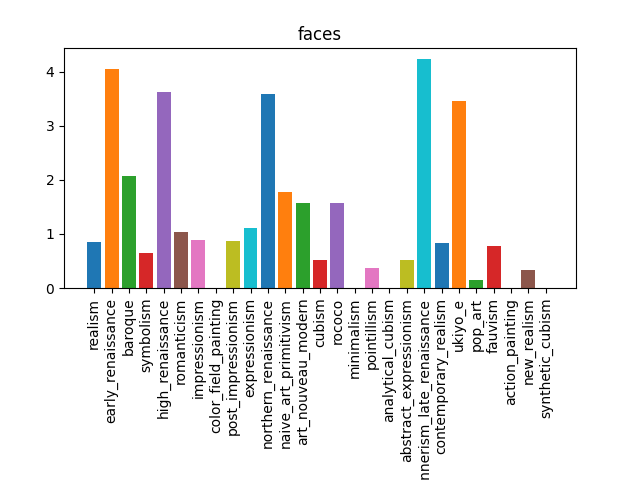
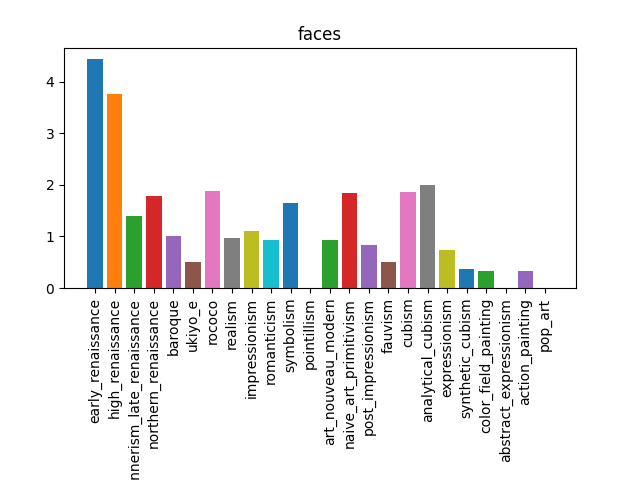
times fix

diff --git a/main.py b/main.py
@@ -35,7 +35,7 @@ y_list = list()
 times = ["early_renaissance", "high_renaissance", "mannerism_late_renaissance", "northern_renaissance", "baroque",
          "ukiyo_e", "rococo", "realism", "impressionism", "romanticism", "symbolism", "pointillism",
          "art_nouveau_modern", "naive_art_primitivism", "post_impressionism", "fauvism", "cubism", "analytical_cubism",
-         "expressionism", "synthetic_cubism", "expressionism", "color_field_painting",
+         "expressionism", "synthetic_cubism", "color_field_painting",
          "abstract_expressionism", "action_painting", "pop_art", "contemporary_realism", "new_realism", "minimalism"]
 
 colors_by_time = ['#FFDAB9', '#FFE4C4', '#FFC0CB', '#DA70D6', '#8B0000', '#800080', '#FFA07A', '#87CEFA', '#3CB371',
